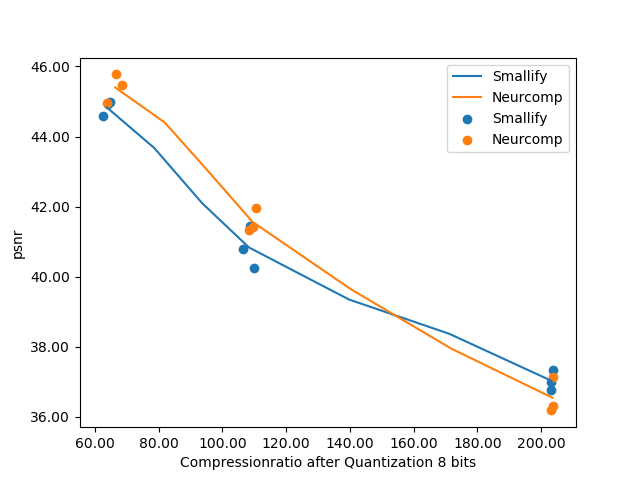
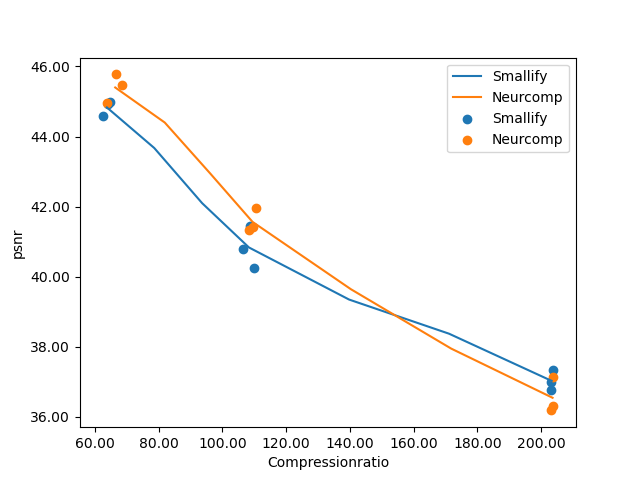
New plot for training after pruning

Changed region(s): [[0.2812, 0.9375, 0.75, 1.0]]

diff --git a/visualization/generatecomprPlot.py b/visualization/generatecomprPlot.py
@@ -4,7 +4,7 @@ from mlflow.tracking import MlflowClient
 import matplotlib.pyplot as plt
 from matplotlib.ticker import FormatStrFormatter
 from pltUtils import generate_array_MLFlow, dict_from_file, append_lists_from_dicts, generate_plot_lists,\
-    normalize_array_0_1, normalize_array, generate_orderedValues
+    normalize_array_0_1, normalize_array, generate_orderedValues, generateMeanValues
 import numpy as np
 from itertools import product
 
@@ -590,35 +590,70 @@ def SmallifyVSNeurcompLR():
     plt.scatter(compressionRatioSmallify, PSNRPrunedSmallify, label='Smallify')
     plt.scatter(compressionRatioNeurcomp, PSNRNeurcomp, label='Neurcomp')
 
-    compressionRatioSmallify_sum = []
-    PSNRPrunedSmallify_sum = []
+    compressionRatioSmallify_sum = generateMeanValues(compressionRatioSmallify, 3)
+    PSNRPrunedSmallify_sum = generateMeanValues(PSNRPrunedSmallify, 3)
 
-    for i in range(len(compressionRatioSmallify)-2):
-        cs = compressionRatioSmallify[i] + compressionRatioSmallify[i+1] + compressionRatioSmallify[i+2]
-        ps = PSNRPrunedSmallify[i] + PSNRPrunedSmallify[i + 1] + PSNRPrunedSmallify[i + 2]
-        compressionRatioSmallify_sum.append(cs / 3.0)
-        PSNRPrunedSmallify_sum.append(ps/3.0)
-        i += 3
     plt.plot(compressionRatioSmallify_sum, PSNRPrunedSmallify_sum, label='Smallify')
 
-    compressionRatioNeurcomp_sum = []
-    PSNRPrunedneurcomp_sum = []
+    compressionRatioNeurcomp_sum = generateMeanValues(compressionRatioNeurcomp, 3)
+    PSNRPrunedneurcomp_sum = generateMeanValues(PSNRNeurcomp, 3)
 
-    for i in range(len(compressionRatioSmallify)-2):
-        cs = compressionRatioNeurcomp[i] + compressionRatioNeurcomp[i+1] + compressionRatioNeurcomp[i+2]
-        ps = PSNRNeurcomp[i] + PSNRNeurcomp[i + 1] + PSNRNeurcomp[i + 2]
-        compressionRatioNeurcomp_sum.append(cs/3.0)
-        PSNRPrunedneurcomp_sum.append(ps/3.0)
-        i += 3
     plt.plot(compressionRatioNeurcomp_sum, PSNRPrunedneurcomp_sum, label='Neurcomp')
 
     plt.gca().yaxis.set_major_formatter(FormatStrFormatter('%.2f'))
     plt.gca().xaxis.set_major_formatter(FormatStrFormatter('%.2f'))
-    plt.xlabel('Compressionratio after Quantization 8 bits')
+    plt.xlabel('Compressionratio')
     plt.ylabel('psnr')
     plt.legend()
 
     filepath = 'plots/' + 'test_volume_' + 'SmallifyVSNeurcompLR' + '.png'
+    plt.savefig(filepath)
+
+
+def SmallifyAftertrainingVSNoAftertrainig():
+    BASENAMERetrain = 'experiments/diff_comp_rates/test_experiment_Retraining/Retrain/test_experiment_'
+    experimentNamesRetrain = ['50_0', '50_1', '50_2', '100_0', '100_1', '100_2', '200_0', '200_1', '200_2']
+
+    BASENAMENoRetrain = 'experiments/diff_comp_rates/test_experiment_Retraining/NoRetrain/test_experiment_'
+    experimentNamesNoRetrain = ['50_0', '50_1', '50_2', '100_0', '100_1', '100_2', '200_0', '200_1', '200_2']
+
+    QUANTNAMECONFIG = 'info.txt'
+
+    compressionRatioRetrain = []
+    PSNRRetrain = []
+
+    compressionRatioNoRetrain = []
+    PSNRNoRetrain = []
+
+    # M: generate lists...
+    generate_plot_lists(([compressionRatioRetrain, PSNRRetrain],),
+                        (['compression_ratio', 'psnr'],),
+                        BASENAMERetrain, (QUANTNAMECONFIG,), experiment_names=experimentNamesRetrain)
+
+    generate_plot_lists(([compressionRatioNoRetrain, PSNRNoRetrain],),
+                        (['compression_ratio', 'psnr'],),
+                        BASENAMENoRetrain, (QUANTNAMECONFIG,), experiment_names=experimentNamesNoRetrain)
+
+    plt.scatter(compressionRatioRetrain, PSNRRetrain, label='With Retraining')
+    plt.scatter(compressionRatioNoRetrain, PSNRNoRetrain, label='No Retraining')
+
+    compressionRatioSmallify_sum = generateMeanValues(compressionRatioRetrain, 3)
+    PSNRPrunedSmallify_sum = generateMeanValues(PSNRRetrain, 3)
+
+    plt.plot(compressionRatioSmallify_sum, PSNRPrunedSmallify_sum, label='With Retraining')
+
+    compressionRatioNeurcomp_sum = generateMeanValues(compressionRatioNoRetrain, 3)
+    PSNRPrunedneurcomp_sum = generateMeanValues(PSNRNoRetrain, 3)
+
+    plt.plot(compressionRatioNeurcomp_sum, PSNRPrunedneurcomp_sum, label='No Retraining')
+
+    plt.gca().yaxis.set_major_formatter(FormatStrFormatter('%.2f'))
+    plt.gca().xaxis.set_major_formatter(FormatStrFormatter('%.2f'))
+    plt.xlabel('Compressionratio')
+    plt.ylabel('psnr')
+    plt.legend()
+
+    filepath = 'plots/' + 'test_volume_' + 'SmallifyAftertrainingVSNoAftertrainig' + '.png'
     plt.savefig(filepath)
 
 
@@ -633,4 +668,5 @@ if __name__ == '__main__':
     #CompressionGainVSPSNR()
     #PrunedVSUnpruned()
     #influenceSmallifyParameter()
-    SmallifyVSNeurcompLR()
+    #SmallifyVSNeurcompLR()
+    SmallifyAftertrainingVSNoAftertrainig()

diff --git a/visualization/pltUtils.py b/visualization/pltUtils.py
@@ -94,3 +94,16 @@ def generate_orderedValues(data, highestValue):
         np_array[index] = steps * (sort+1)
 
     return np_array
+
+
+def generateMeanValues(originalData, numbersOfElements):
+    data_sum = []
+
+    for i in range(len(originalData) - (numbersOfElements -1)):
+        cur = 0
+        for j in range(numbersOfElements):
+            cur += originalData[i+j]
+        data_sum.append(cur/numbersOfElements)
+        i += numbersOfElements
+
+    return data_sum
